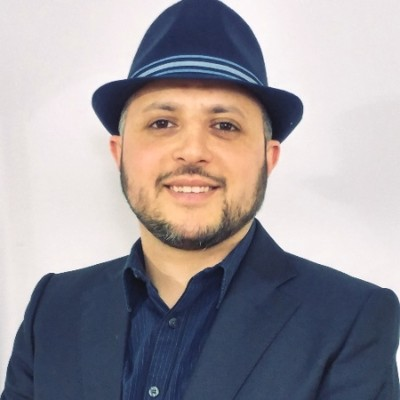
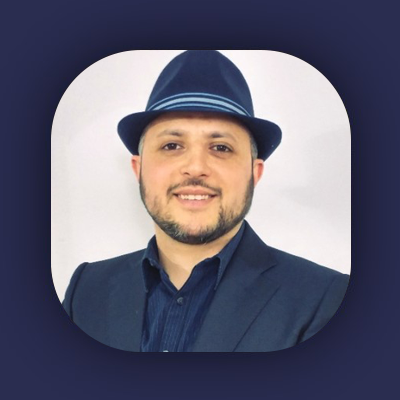
hopefully fixed team section lagg

diff --git a/assets/css/stylesheet.css b/assets/css/stylesheet.css
@@ -1,15 +1,15 @@
-/*::-webkit-scrollbar {
+::-webkit-scrollbar {
     width: 12px;
 }
 
 ::-webkit-scrollbar-thumb {
-    background-color: #e3e2f06f;
+    background-color:#1B1630;
     border-radius: 20px;
 }
 
 ::-webkit-scrollbar-track {
     background-color: #1c183ad5;
-}*/
+}
 
 /* Text highlight CSS, change colour to whatever you want, just temp */
 ::selection{
@@ -430,7 +430,6 @@ main {
 }
 
 /* stuff */
-
 .stuff {
     display: flex;
     flex-direction: column;
@@ -448,10 +447,10 @@ h1 {
 }
 
 .accordion-title {
-    font-weight: 600;
-    font-size: 2rem;
-    padding-bottom: 1.5em;
-    width: 60%;
+  font-weight: 600;
+  font-size: 2rem;
+  padding-bottom: 1.5em;
+  width: 60%;
 }
 
 .dummy {
@@ -460,17 +459,17 @@ h1 {
 
 /* Accordion */
 #faq {
-    display: flex;
-    overflow: hidden;
-    width: 85%;
-    padding-bottom: 8em;
+  display: flex;
+  overflow: hidden;
+  width: 85%;
+  padding-bottom: 8em;
 }
 
 .cols {
-    display: flex;
-    flex-direction: column;
-    flex: 1;
-    align-items: center;
+  display: flex;
+  flex-direction: column;
+  flex: 1;
+  align-items: center;
 }
 
 #faq .container {
@@ -480,49 +479,49 @@ h1 {
 }
 
 .accordion__label {
-    padding: 1em 1.2em;
-    padding-right: 3em;
-    font-size: 1.3rem;
+  padding: 1em 1.2em;
+  padding-right: 3em;
+  font-size: 1.3rem;
 }
 
 #faq p {
-    margin: 0;
+  margin: 0;
 }
 
 .accordion__content {
-    padding: 0em 1.2em;
-    padding-bottom: 1em;
+  padding: 0em 1.2em;
+  padding-bottom: 1em;
 }
 
 .accordion__label {
-    display: block;
-    color: rgb(240, 234, 234);
-    font-weight: 800;
-    cursor: pointer;
-    position: relative;
-    transition: background 0.1s;
-    align-items: center;
+  display: block;
+  color: rgb(240, 234, 234);
+  font-weight: 800;
+  cursor: pointer;
+  position: relative;
+  transition: background 0.1s;
+  align-items: center;
 }
 
 .accordion__label::after {
-    content: url('../images/add-symbol.svg');
-    position: absolute;
-    transform-origin: center;
-    top: calc(50% - 10px);
-    right: 1.5em;
-    background-size: contain;
-    transition: transform 0.2s;
+  content: url('../images/add-symbol.svg');
+  position: absolute;
+  transform-origin: center;
+  top: calc(50% - 10px);
+  right: 1.5em;
+  background-size: contain;
+  transition: transform 0.2s;
 }
 
 .accordion__content {
-    font-size: 1.1rem;
-    display: none;
-    animation: fadeIn 1s;
-    color: rgb(209, 208, 208);
+  font-size: 1.1rem;
+  display: none;
+  animation: fadeIn 1s;
+  color: rgb(209, 208, 208);
 }
 
 #faq .container:nth-child(2) {
-    border-top: white 2px solid;
+  border-top: white 2px solid;
 }
 
 .accordion__input {
@@ -530,8 +529,8 @@ h1 {
 }
 
 .accordion__input:checked ~ .accordion__content {
-    display: block;
-    opacity: 1;
+  display: block;
+  opacity: 1;
 }
 
 .accordion__input:checked ~ .accordion__label::after {
@@ -739,10 +738,9 @@ footer {
 
 .card-photo {
   margin-top: 10px;
-  width: 128px;
-  height: 128;
+  width: 165px;
+  height: 165;
   border-radius: 30%;
-  filter: drop-shadow(0px 0px 30px rgba(0, 0, 0, 0.72));
   transition: transform 0.3s ease-out;
 }
 

diff --git a/index.html b/index.html
@@ -5,10 +5,10 @@
     <meta charset="UTF-8">
     <meta name="viewport" content="width=device-width, initial-scale=1.0">
     <title>JACHacks</title>
-    <link rel="apple-touch-icon" sizes="180x180" href="assets/images/apple-touch-icon.png">
+    <!--<link rel="apple-touch-icon" sizes="180x180" href="assets/images/apple-touch-icon.png">
     <link rel="icon" type="image/png" sizes="32x32" href="assets/images/favicon-32x32.png">
-    <link rel="icon" type="image/png" sizes="16x16" href="assets/images/favicon-16x16.png">
-    <link rel="manifest" href="/site.webmanifest">
+    <link rel="icon" type="image/png" sizes="16x16" href="assets/images/favicon-16x16.png">-->
+    <link rel="icon" type="image/png" href="assets/images/favicon.ico">
     <link rel="stylesheet" href="assets/css/stylesheet.css">
     <script defer src="assets/js/script.js"></script>
     <link rel="stylesheet" href="https://cdnjs.cloudflare.com/ajax/libs/font-awesome/5.15.4/css/all.min.css">
@@ -197,7 +197,7 @@
                     </div>
                 </div>
                 <div class="card container">
-                    <img class="card-photo" src="assets/images/team/TJ.jpg">
+                    <img class="card-photo" src="assets/images/team/TJ.png">
                     <div class="card-title">Timothy Klint (TJ) <br>
                         <span>Logistics 📦</span>
                     </div>
